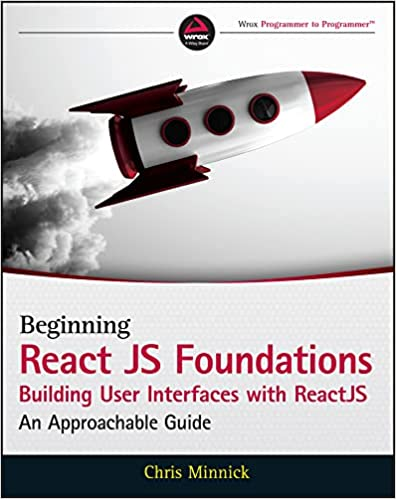
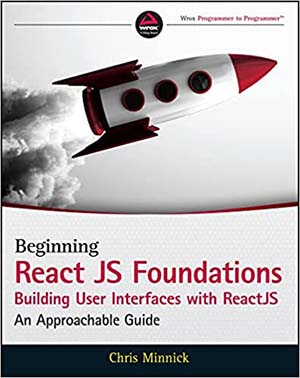
reduced size of cover image

diff --git a/book-code-listings/src/Introduction.js b/book-code-listings/src/Introduction.js
@@ -5,7 +5,7 @@ function Introduction(props) {
     <>
     <div style={{textAlign:"center"}}>
       <a href="https://www.amazon.com/React-Foundations-Building-Interfaces-ReactJS/dp/1119685540?keywords=react+js+foundations+minnick&qid=1637085780&qsid=144-7321471-0673327&sr=8-1&sres=1119685540%2CB082KZ8ZGM%2CB00PFCSURS%2CB084W9YBXD%2CB07J9KNS9G%2CB07GX6DSRW%2CB08TY6413H%2CB004675EI6%2CB002LF0J1M%2CB00DQL8HKK%2CB01LXJ0GF3%2CB01DPA6JXS%2CB01L2ZRYVE%2CB074VD4X89%2CB07SJYX8DV%2CB01M0H2R13&srpt=ABIS_BOOK&linkCode=sl1&tag=chrismincom-20&linkId=ad221fcbab9a5e438b88d2a0b3cb44c9&language=en_US&ref_=as_li_ss_tl">
-      <img src="/images/cover.jpg" width="395" height="498" style={{maxWidth:"100%",height:"auto"}} alt="React JS Foundations" />
+      <img src="/images/cover.jpg" width="300" height="378" style={{maxWidth:"100%",height:"auto"}} alt="React JS Foundations" />
       </a>
     </div>
     <Helmet> 
